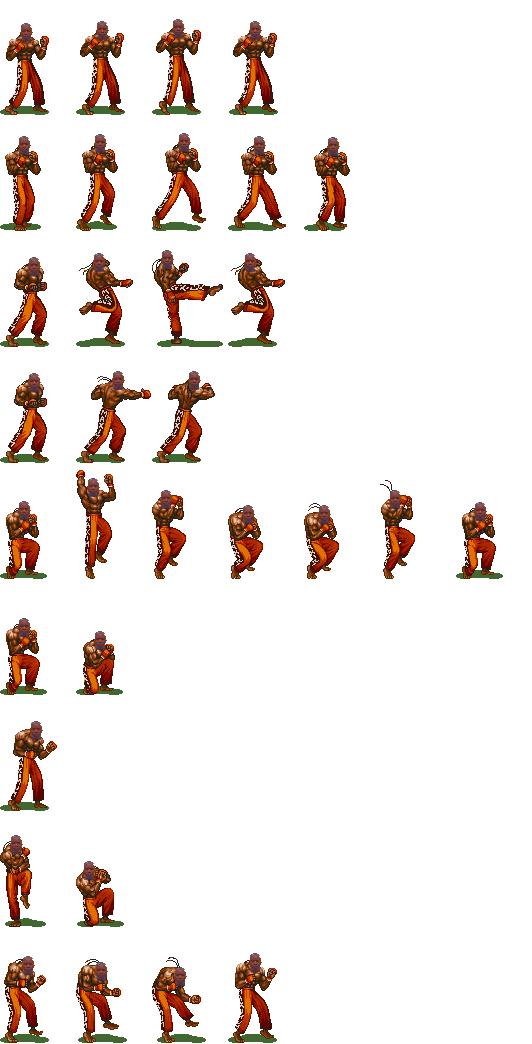
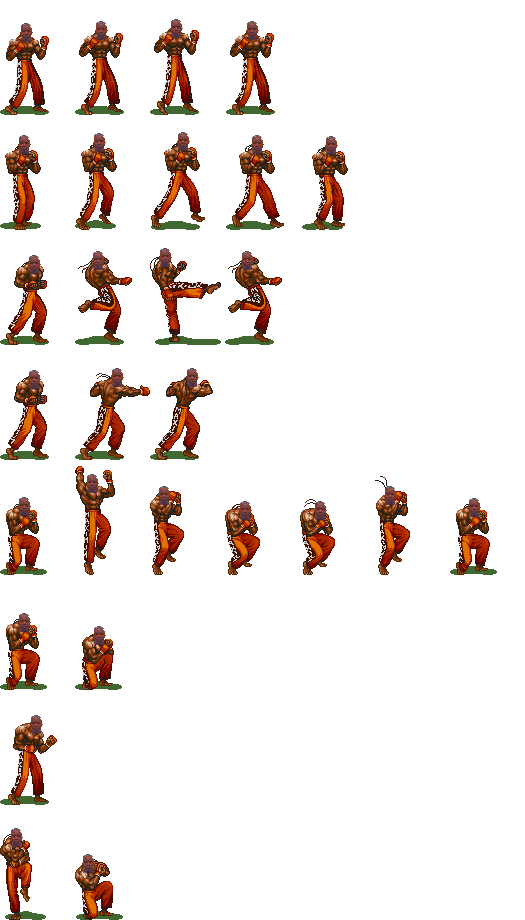
Removed 1px barrier between each animation

diff --git a/wv_battleroyale/src/game/Fighters/Fighter.java b/wv_battleroyale/src/game/Fighters/Fighter.java
@@ -374,7 +374,7 @@ public abstract class Fighter
 		GUIUtils.self().drawHP(isP1 ? HP_BAR_X_P1 : HP_BAR_X_P2, HP_BAR_Y, HP_BAR_WIDTH, HP_BAR_HEIGHT, health, 
 				getMaxHealth(), isP1 ? P1COLOR : P2COLOR, g);
 		// TODO: Draw p1 and p2 next to the bars
-		GUIUtils.self().drawImg(getSpriteSheet(), frame * (getSrcWidth() + 1), State.getIndex() * (getSrcHeight() + 1),
+		GUIUtils.self().drawImg(getSpriteSheet(), frame * getSrcWidth(), State.getIndex() * getSrcHeight(),
 				x + offset, height - y, getSrcWidth(), getSrcHeight(), getDrawWidth(), getDrawHeight(), g);
 		changeAnimation++;
 		if (isP1)
